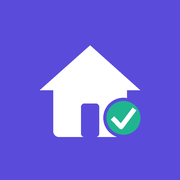
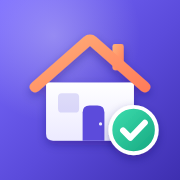
Release v1.4.0
Nuova icona dell'app e pagina GitHub con banner e schermate.

Claude-Session: https://claude.ai/code/session_011xaB9BT2jKkugQoaKzE8DK

diff --git a/app.js b/app.js
@@ -548,9 +548,9 @@ function renderShell() {
       <p>Manca la configurazione di Firebase: pubblica l'app con <b>firebase deploy</b> (vedi README).</p></div></div>`;
     return;
   }
-  if (S.user === undefined) { $app.innerHTML = `<div class="splash"><div class="splash-logo">🏡</div></div>`; return; }
+  if (S.user === undefined) { $app.innerHTML = `<div class="splash"><img class="app-icon splash-logo" src="icons/icon-192.png" alt=""></div>`; return; }
   if (!S.user) {
-    $app.innerHTML = `<div class="center"><div class="login"><div class="logo">🏡</div><h1>Tracker Casa</h1>
+    $app.innerHTML = `<div class="center"><div class="login"><img class="app-icon" src="icons/icon-192.png" alt=""><h1>Tracker Casa</h1>
       <p>Cosa manca, chi ha comprato cosa, e a chi tocca la prossima volta.</p>
       <button class="gbtn" data-act="login"><svg width="20" height="20" viewBox="0 0 48 48"><path fill="#FFC107" d="M43.6 20.5H42V20H24v8h11.3C33.7 32.7 29.2 36 24 36c-6.6 0-12-5.4-12-12s5.4-12 12-12c3.1 0 5.8 1.2 7.9 3.1l5.7-5.7C34 6.1 29.3 4 24 4 12.9 4 4 12.9 4 24s8.9 20 20 20 20-8.9 20-20c0-1.3-.1-2.4-.4-3.5z"/><path fill="#FF3D00" d="m6.3 14.7 6.6 4.8C14.7 15.1 19 12 24 12c3.1 0 5.8 1.2 7.9 3.1l5.7-5.7C34 6.1 29.3 4 24 4 16.3 4 9.7 8.3 6.3 14.7z"/><path fill="#4CAF50" d="M24 44c5.2 0 9.9-2 13.4-5.2l-6.2-5.2c-2 1.5-4.5 2.4-7.2 2.4-5.2 0-9.6-3.3-11.3-8l-6.5 5C9.5 39.6 16.2 44 24 44z"/><path fill="#1976D2" d="M43.6 20.5H42V20H24v8h11.3c-.8 2.2-2.2 4.2-4.1 5.6l6.2 5.2C37 39.2 44 34 44 24c0-1.3-.1-2.4-.4-3.5z"/></svg>Accedi con Google</button>
       <div class="footer-ver">v${VERSION}</div></div></div>`;

diff --git a/index.html b/index.html
@@ -12,13 +12,14 @@
   <meta name="apple-mobile-web-app-status-bar-style" content="default">
   <meta name="apple-mobile-web-app-title" content="Casa">
   <link rel="manifest" href="manifest.webmanifest">
-  <link rel="icon" href="icons/icon-192.png" type="image/png">
+  <link rel="icon" href="icons/icon.svg" type="image/svg+xml">
+  <link rel="icon" href="icons/favicon-32.png" type="image/png" sizes="32x32">
   <link rel="apple-touch-icon" href="icons/apple-touch-icon.png">
   <link rel="stylesheet" href="styles.css">
 </head>
 <body>
   <div id="app">
-    <div class="splash"><div class="splash-logo">🏡</div></div>
+    <div class="splash"><img class="app-icon splash-logo" src="icons/icon-192.png" alt=""></div>
   </div>
   <div id="sheet-root"></div>
   <div id="toast" role="status" aria-live="polite"></div>

diff --git a/sw.js b/sw.js
@@ -1,10 +1,10 @@
 // Service worker: rende l'app installabile e usabile anche con rete scarsa.
 // Ad ogni release cambia CACHE (stesso numero di version.js).
-const CACHE = "tracker-casa-1.3.2";
+const CACHE = "tracker-casa-1.4.0";
 const SHELL = [
   "./", "index.html", "styles.css", "app.js", "version.js", "seed.js",
   "firebase-config.js", "manifest.webmanifest",
-  "icons/icon-192.png", "icons/icon-512.png", "icons/apple-touch-icon.png"
+  "icons/icon-192.png", "icons/icon-512.png", "icons/apple-touch-icon.png", "icons/icon.svg", "icons/favicon-32.png"
 ];
 
 self.addEventListener("install", (e) => {

diff --git a/styles.css b/styles.css
@@ -249,3 +249,6 @@ select.field { -webkit-appearance: none; appearance: none;
   .rotate { display: grid; place-items: center; text-align: center; position: fixed; inset: 0; z-index: 100;
     background: var(--bg); color: var(--ink); font-weight: 650; font-size: 18px; gap: 8px; }
 }
+
+/* Icona dell'app nella schermata di accesso */
+.app-icon { width: 96px; height: 96px; border-radius: 22px; box-shadow: 0 10px 30px rgba(62, 47, 176, .35); display: block; margin: 0 auto 6px; }

diff --git a/version.js b/version.js
@@ -1,2 +1,2 @@
 // Versione corrente dell'app. Ad ogni release: aggiorna qui, in sw.js (CACHE) e in CHANGELOG.md.
-export const VERSION = "1.3.2";
+export const VERSION = "1.4.0";

diff --git a/README.md b/README.md
@@ -1,6 +1,27 @@
+<p align="center"><img src="docs/banner.png" alt="Tracker Casa" width="100%"></p>
+
+<p align="center">
+  <a href="https://tracker-casa-a0c47.web.app"><b>🌐 Apri l'app</b></a> ·
+  <a href="CHANGELOG.md">📝 Novità</a> ·
+  <img alt="versione" src="https://img.shields.io/badge/versione-1.4.0-5B4BDB">
+  <img alt="iPhone" src="https://img.shields.io/badge/iPhone-PWA-1d1b22?logo=apple">
+  <img alt="Firebase" src="https://img.shields.io/badge/Firebase-Spark%20(gratis)-FFCA28?logo=firebase&logoColor=black">
+</p>
+
 # 🏡 Tracker Casa
 
-Web app per tre coinquiline: lista di **cosa manca in casa**, **registro acquisti**, **statistiche** (chi ha comprato di più, chi per ultimo, a chi tocca). Login con Google, solo account autorizzati. Installabile sul telefono come app.
+App per tre coinquiline: lista di **cosa manca in casa**, **registro acquisti**, **statistiche** (chi ha comprato di più, chi per ultimo, a chi tocca). Login con Google, solo account autorizzati. Si installa sull'iPhone come una vera app.
+
+<p align="center"><img src="docs/screenshots.png" alt="Schermate dell'app" width="100%"></p>
+
+## ✨ Cosa fa
+
+- 📝 **Manca in casa** — lista condivisa, con chi l'ha segnato e **a chi tocca** comprarlo.
+- 🧺 **Prodotti** — per categoria, un tocco per "Manca" o "✓ Preso".
+- 🛁 **Bagno condiviso** — ogni prodotto ha le sue partecipanti: ognuna vede solo le cose che compra anche lei.
+- 🧾 **Registro** — tutti gli acquisti giorno per giorno.
+- 📊 **Statistiche** — chi ha comprato di più, chi per ultimo, tabella prodotto × coinquilina.
+- 🔐 **Accesso controllato** — si entra con Google, l'amministratore conferma chi è chi.
 
 **Stack (tutto gratuito):** HTML/CSS/JS senza build · Firebase Authentication + Cloud Firestore + **Firebase Hosting** (piano Spark, senza carta di credito) · codice su GitHub.
 

diff --git a/CHANGELOG.md b/CHANGELOG.md
@@ -2,6 +2,15 @@
 
 Tutte le modifiche all'app sono registrate qui. Formato: [Keep a Changelog](https://keepachangelog.com/it/1.1.0/), versioni [SemVer](https://semver.org/lang/it/).
 
+## [1.4.0] — 2026-11-15
+### Aggiunto
+- **Nuova icona dell'app** (casa con spunta, sfondo viola sfumato) per la schermata Home dell'iPhone, Android e il browser; sorgente in `icons/icon.svg`.
+- Icona mostrata anche nella schermata di accesso e di caricamento.
+- Pagina GitHub rinnovata: banner, schermate dell'app, elenco delle funzioni (`docs/`).
+
+### Modificato
+- `docs/` esclusa dalla pubblicazione su Firebase Hosting.
+
 ## [1.3.2] — 2026-11-15
 ### Aggiunto
 - Pubblicazione automatica con GitHub Actions (`.github/workflows/deploy.yml`): ogni push su `main` pubblica l'app su Firebase Hosting, senza Terminale.
